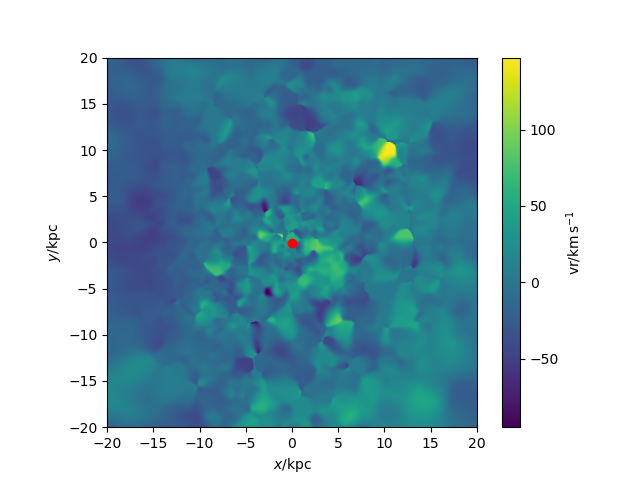
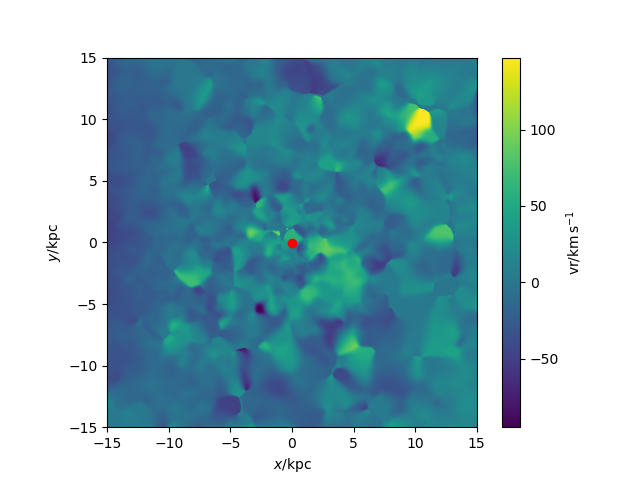
axis updated

diff --git a/r316/galaxy316_iongas.py b/r316/galaxy316_iongas.py
@@ -13,13 +13,14 @@ s=pynbody.load('/mnt/data0/jillian/gguaman/r316/cosmo25p.768sg1bwK1BHe75.007779'
 s.physical_units()
 
 #centering halo
-pynbody.analysis.angmom.faceon(s)
+#pynbody.analysis.angmom.faceon(s)
+pynbody.analysis.angmom.sideon(s)
 
 #filter to only use ionised gas
 GasFilter = pynbody.filt.HighPass('temp','15848 K')
 
 #creating image to show velocity of ionised gas
-sph.image(s.g[GasFilter],qty="vr",vmin=-20,width=40,denoise=True,approximate_fast=False,log=False)
+sph.image(s.g[GasFilter],qty="vr",vmin=-20,width=30,denoise=True,approximate_fast=False,log=False)
 
 #function to find BH
 def findBH(s):
@@ -52,4 +53,5 @@ BHz=BHposition[[0],2]
 plt.plot(BHx,BHy, 'ro')
 
 #plt.show()
-plt.savefig("galaxy316_iongas.png")
+#plt.savefig("galaxy316_iongas.png")
+plt.savefig("galaxy316_iongas(side).png")

diff --git a/r316/galaxy316_velocity.py b/r316/galaxy316_velocity.py
@@ -12,10 +12,11 @@ s=pynbody.load('/mnt/data0/jillian/gguaman/r316/cosmo25p.768sg1bwK1BHe75.007779'
 s.physical_units()
 
 #centering halo
-pynbody.analysis.angmom.faceon(s)
+#pynbody.analysis.angmom.faceon(s)
+pynbody.analysis.angmom.sideon(s)
 
 #creating gas velocity plot
-sph.image(s.g,qty="vr",width=40,denoise=True,approximate_fast=False,log=False)
+sph.image(s.g,qty="vr",width=30,denoise=True,approximate_fast=False,log=False)
 
 #function to find BH
 def findBH(s):
@@ -48,4 +49,5 @@ BHz=BHposition[[0],2]
 plt.plot(BHx,BHy, 'ro')
 
 #plt.show()
-plt.savefig("galaxy316_velocity.png")
+#plt.savefig("galaxy316_velocity.png")
+plt.savefig("galaxy316_velocity(side).png")

diff --git a/r316/galaxy316_temp.py b/r316/galaxy316_temp.py
@@ -12,10 +12,11 @@ s=pynbody.load('/mnt/data0/jillian/gguaman/r316/cosmo25p.768sg1bwK1BHe75.007779'
 s.physical_units()
 
 #centering halo
-pynbody.analysis.angmom.faceon(s)
+#pynbody.analysis.angmom.faceon(s)
+pynbody.analysis.angmom.sideon(s)
 
 #creating slice to show gas temp
-sph.image(s.g,qty="temp",width=40,denoise=True,approximate_fast=False,log=True)
+sph.image(s.g,qty="temp",width=30,denoise=True,approximate_fast=False,log=True)
 
 #function to find BH
 def findBH(s):
@@ -48,4 +49,5 @@ BHz=BHposition[[0],2]
 plt.plot(BHx,BHy, 'ro')
 
 #plt.show()
-plt.savefig("galaxy316_temp.png")
+#plt.savefig("galaxy316_temp.png")
+plt.savefig("galaxy316_temp(side).png")

diff --git a/r316/galaxy316_dens.py b/r316/galaxy316_dens.py
@@ -10,10 +10,11 @@ s=pynbody.load('/mnt/data0/jillian/gguaman/r316/cosmo25p.768sg1bwK1BHe75.007779'
 s.physical_units()
 
 #centering halo and aligning disk
-pynbody.analysis.angmom.faceon(s)
+#pynbody.analysis.angmom.faceon(s)
+pynbody.analysis.angmom.sideon(s)
 
 #creating gas density slice
-sph.image(s.g,qty="rho",units="g cm^-3",width=40)
+sph.image(s.g,qty="rho",units="g cm^-3",width=30)
 
 #function to find BH
 def findBH(s):
@@ -46,4 +47,5 @@ BHz=BHposition[[0],2]
 plt.plot(BHx,BHy, 'ro')
 
 #plt.show()
-plt.savefig("galaxy316_dens.png")
+#plt.savefig("galaxy316_dens.png")
+plt.savefig("galaxy316_dens(side).png")

diff --git a/r316/galaxy316_stars.py b/r316/galaxy316_stars.py
@@ -10,10 +10,12 @@ s=pynbody.load('/mnt/data0/jillian/gguaman/r316/cosmo25p.768sg1bwK1BHe75.007779'
 s.physical_units()
 
 #centering halo
-pynbody.analysis.angmom.faceon(s)
+#pynbody.analysis.angmom.faceon(s)
+pynbody.analysis.angmom.sideon(s)
 
 #creating image using default bands(i,v,u)
-pynbody.plot.stars.render(s,width='12 kpc')
+pynbody.plot.stars.render(s,width='30 kpc')
 
 #plt.show()
-plt.savefig("galaxy316_stars.png")
+#plt.savefig("galaxy316_stars.png")
+plt.savefig("galaxy316_stars(side).png")
